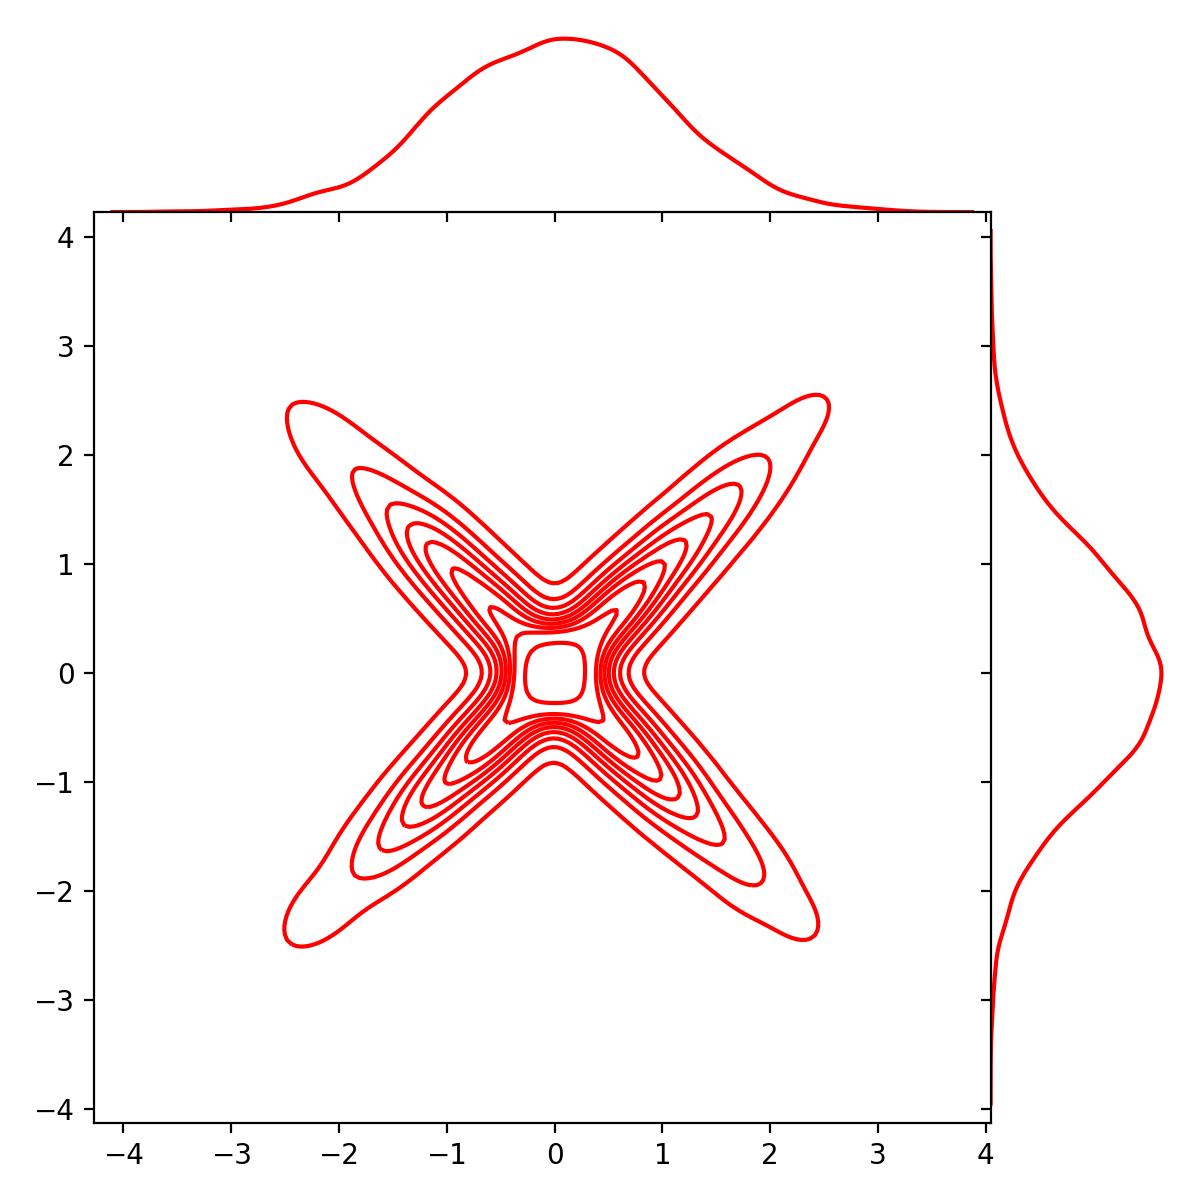
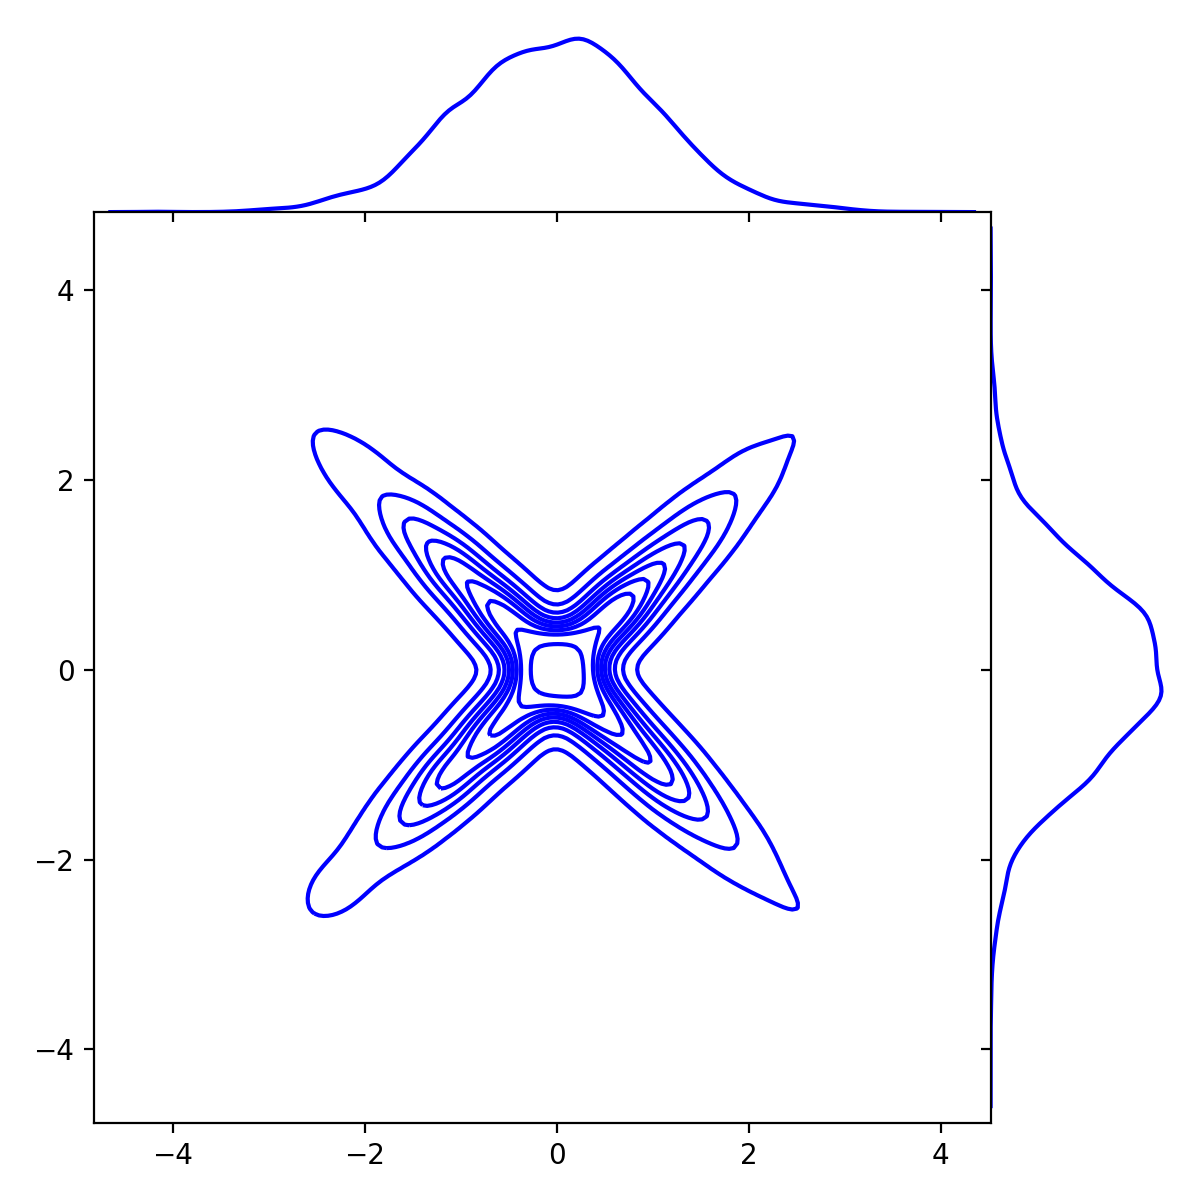
Updated README.md

diff --git a/examples.py b/examples.py
@@ -51,7 +51,7 @@ z_2 = z_2.reshape((n, 1))
 test_data = np.concatenate((z_1, z_2), axis=1)
 
 # plot the original distribution in blue, smoothed using a kde smoother
-graph = sns.jointplot(x=test_data[:, 0], y=test_data[:, 1], kind="kde", space=0, color='blue')
+graph = sns.jointplot(x=test_data[:, 0], y=test_data[:, 1], kind="kde", space=0, color='red')
 plt.show()
 
 # set parameters
@@ -66,13 +66,13 @@ sg = SampleGenerator(test_data, precision, density, delta)
 sampled_points = sg.sample_points(10000)
 
 # plot newly sampled points by themselves
-sns.jointplot(x=sampled_points[:, 0], y=sampled_points[:, 1], kind="kde", space=0, color='red')
+sns.jointplot(x=sampled_points[:, 0], y=sampled_points[:, 1], kind="kde", space=0, color='blue')
 plt.show()
 
 # plot the newly sampled points onto the same plot as the original points
 graph.x = sampled_points[:, 0]
 graph.y = sampled_points[:, 1]
 
-graph.plot_joint(sns.kdeplot, color='red')
+graph.plot_joint(sns.kdeplot, color='blue')
 
 plt.show()
